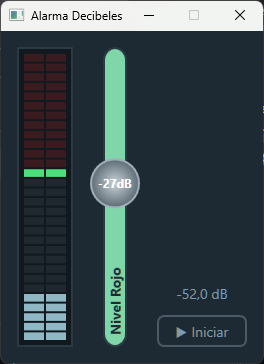
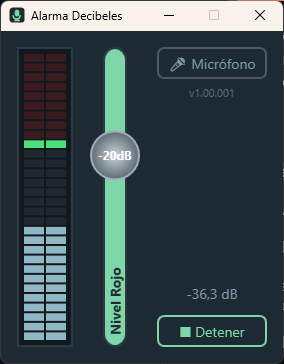
Actualiza capturas del README con la UI actual
Reemplaza el pantallazo de la ventana principal (ahora con el botón
Micrófono y la versión) y agrega uno del selector de micrófono.

diff --git a/README.md b/README.md
@@ -5,8 +5,11 @@
 ¿Reuniones en las que terminas gritando sin darte cuenta? ¿Llamadas nocturnas con gente durmiendo al lado? AlarmaDecibeles escucha tu micrófono y suena apenas pasas el volumen que tú elijas.
 
 <p align="center">
-  <img src="docs/screenshot.png" alt="Ventana de AlarmaDecibeles: medidor LED, fader de Nivel Rojo y botón Iniciar" width="260">
+  <img src="docs/screenshot.png" alt="Ventana principal de AlarmaDecibeles escuchando: medidor LED, fader de Nivel Rojo en -20 dB, botón Micrófono y botón Detener" width="260">
+  &nbsp;&nbsp;
+  <img src="docs/selector-microfono.png" alt="Selector de micrófono con la opción Por defecto seleccionado en Windows y la lista de entradas de audio" width="298">
 </p>
+<p align="center"><sub>La ventana principal escuchando el micrófono · El selector de fuente de audio</sub></p>
 
 ## ✨ Cómo funciona
 
